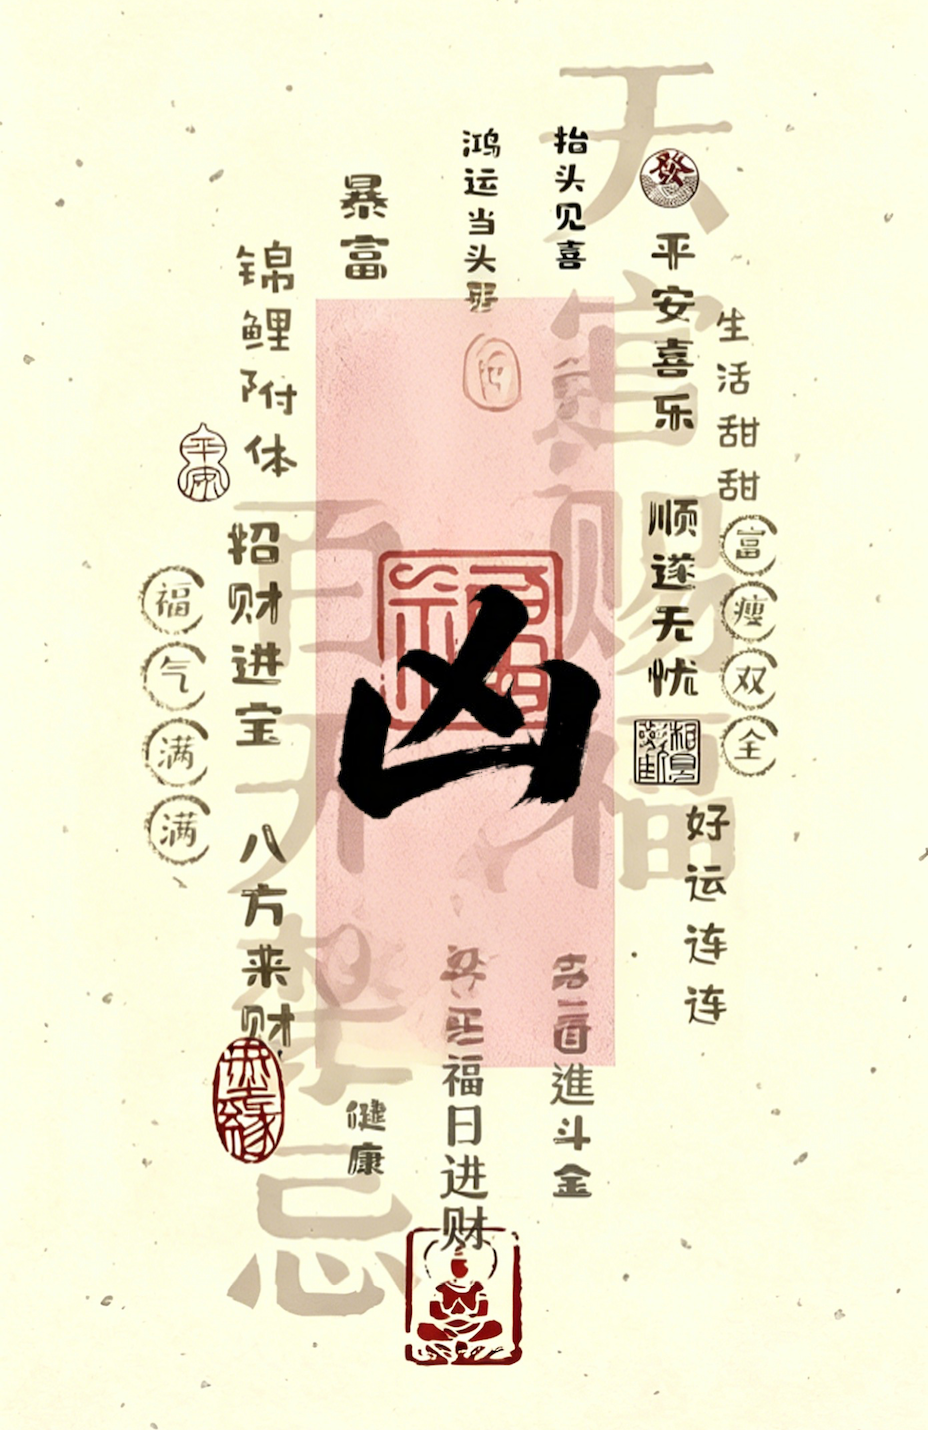
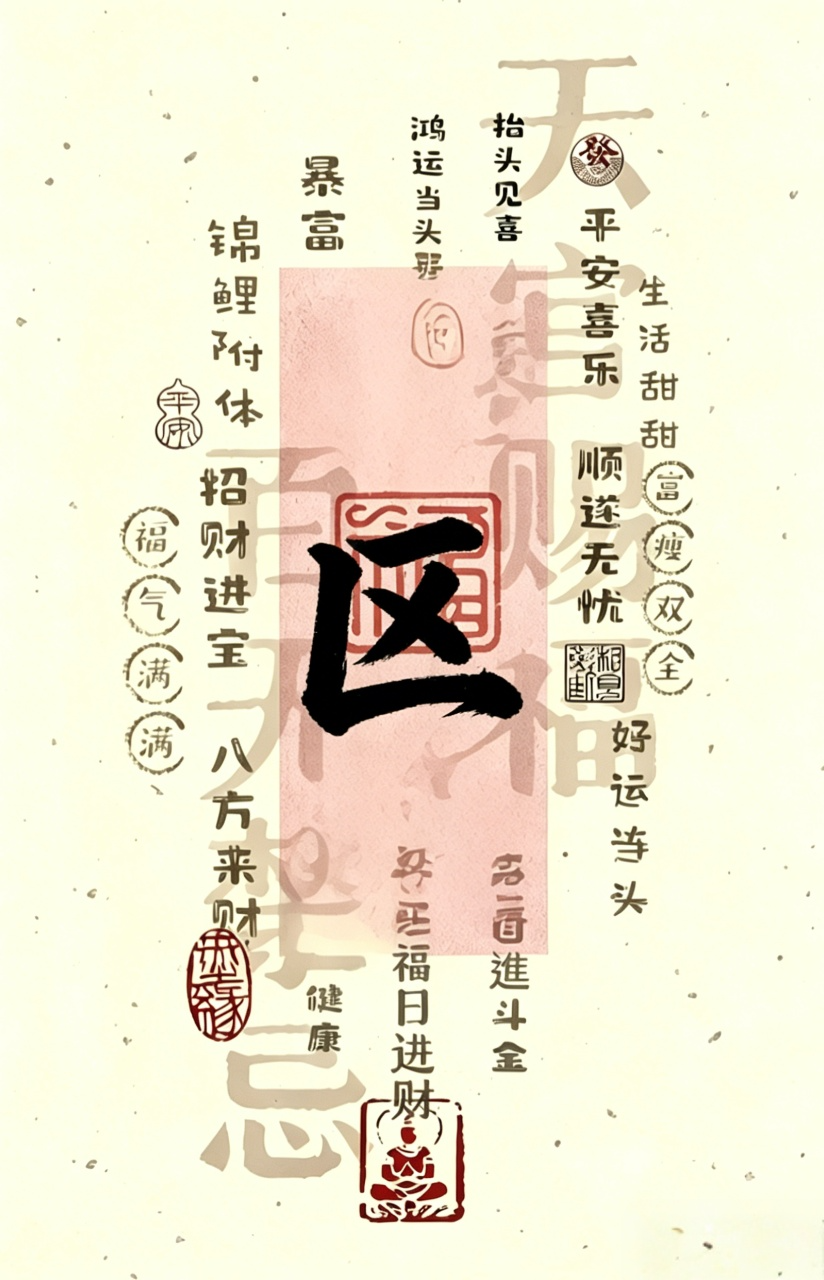
feat: 抽签新增小凶等级，调整各等级权重分布更合理

diff --git a/nonebot_plugin_laofei_tools/common/points_data.py b/nonebot_plugin_laofei_tools/common/points_data.py
@@ -540,6 +540,7 @@ FORTUNE_TEXTS = [
     {"level": "中吉", "text": "稳步前行多顺遂，小福常伴日子安。"},
     {"level": "小吉", "text": "浅福相伴皆安稳，平淡日子有惊喜。"},
     {"level": "平签", "text": "万事平平无起落，顺其自然自安然。"},
+    {"level": "小凶", "text": "小有不顺莫心慌，谨言慎行自可安。"},
     {"level": "凶", "text": "稍遇波折不足惧，静心慎行可化解。"},
     {"level": "大凶", "text": "低谷只是一时境，守心蓄力迎新生。"},
 ]
@@ -581,11 +582,19 @@ def draw_fortune(user_id: str) -> dict:
         return {"success": True, "fortune": user_rec["fortune"]}
 
     # 按权重随机抽取签文
-    # 撞大运: 2%, 其他6个等级均分 98%
-    weights = [0.02]  # 撞大运 2%
-    remaining = 0.98 / 6  # 其他6个等级均分
-    weights.extend([remaining] * 6)
-    
+    # 撞大运: 2%, 其他7个等级均分 98%
+    # 顺序: 撞大运 大吉 中吉 小吉 平签 小凶 凶 大凶
+    weights = [
+        0.02,   # 撞大运 2%
+        0.15,   # 大吉   15%
+        0.20,   # 中吉   20%
+        0.20,   # 小吉   20%
+        0.18,   # 平签   18%
+        0.12,   # 小凶   12%
+        0.08,   # 凶     8%
+        0.05,   # 大凶   5%
+    ]
+
     # 按权重随机选择
     fortune = random.choices(FORTUNE_TEXTS, weights=weights, k=1)[0]
 